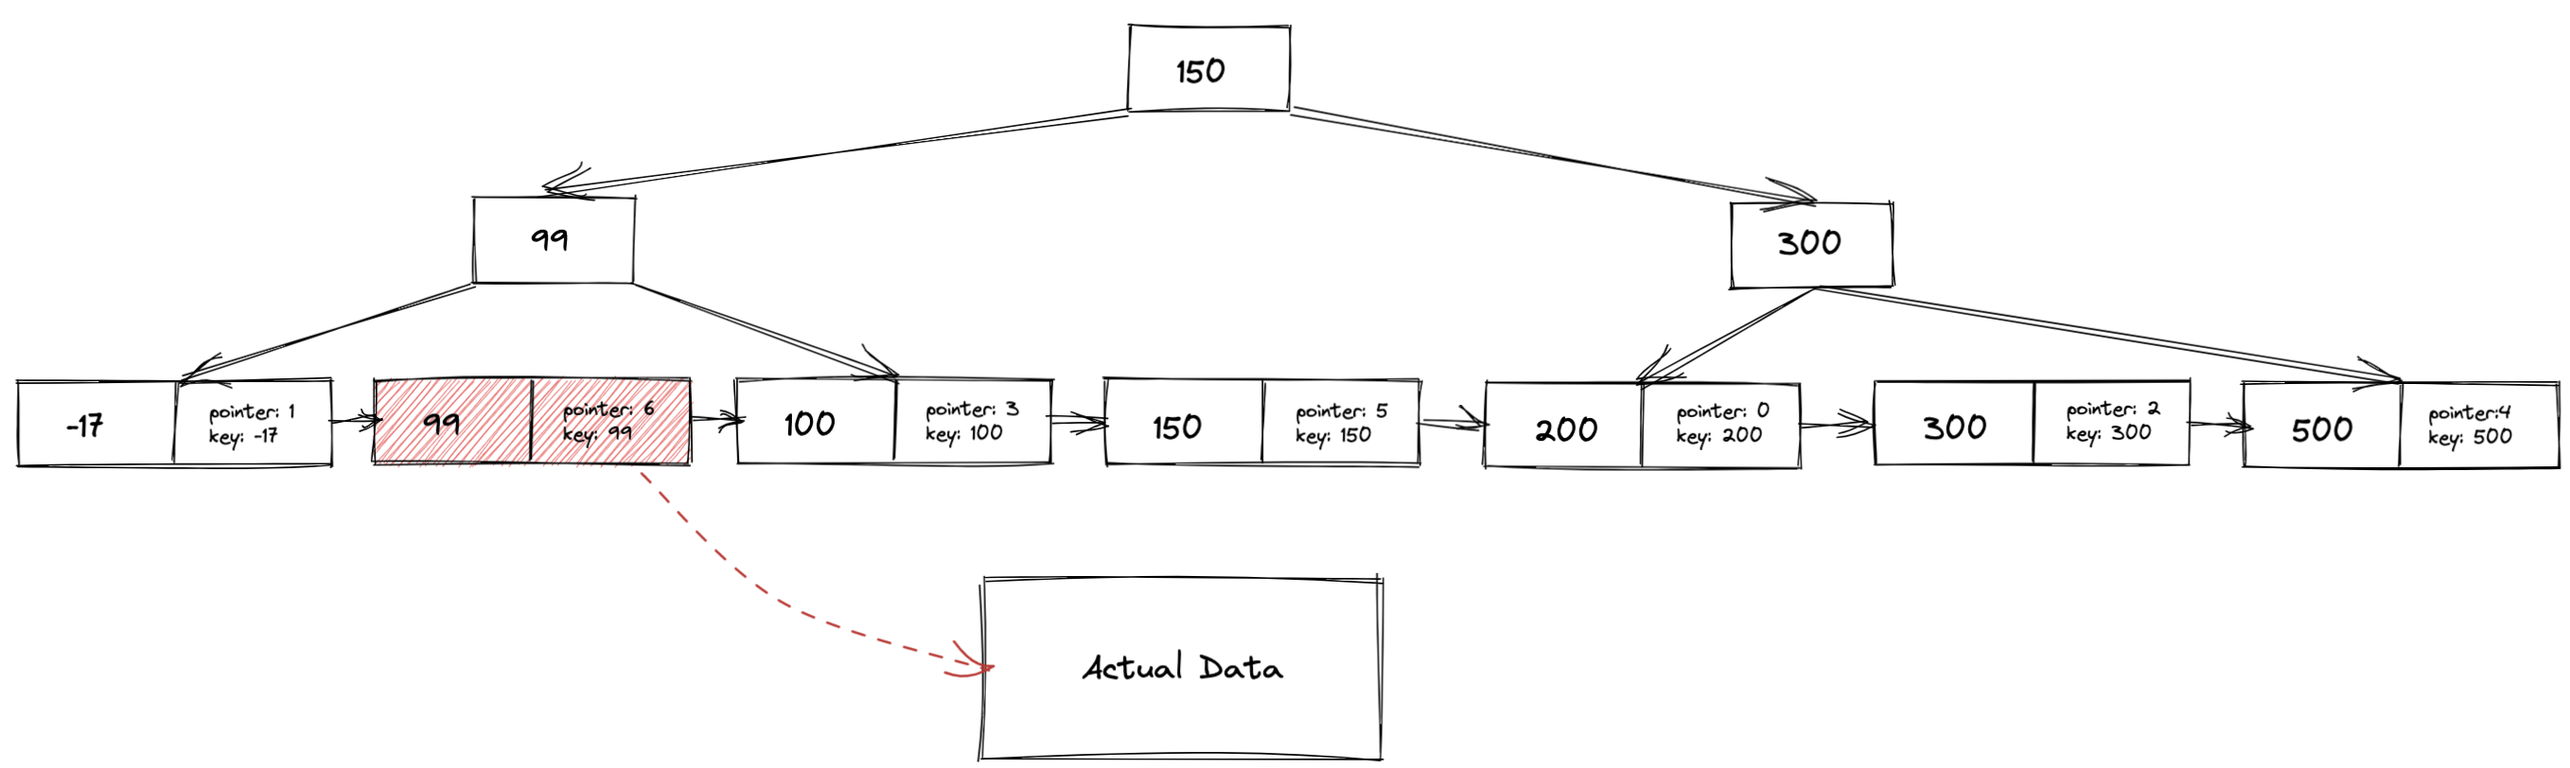
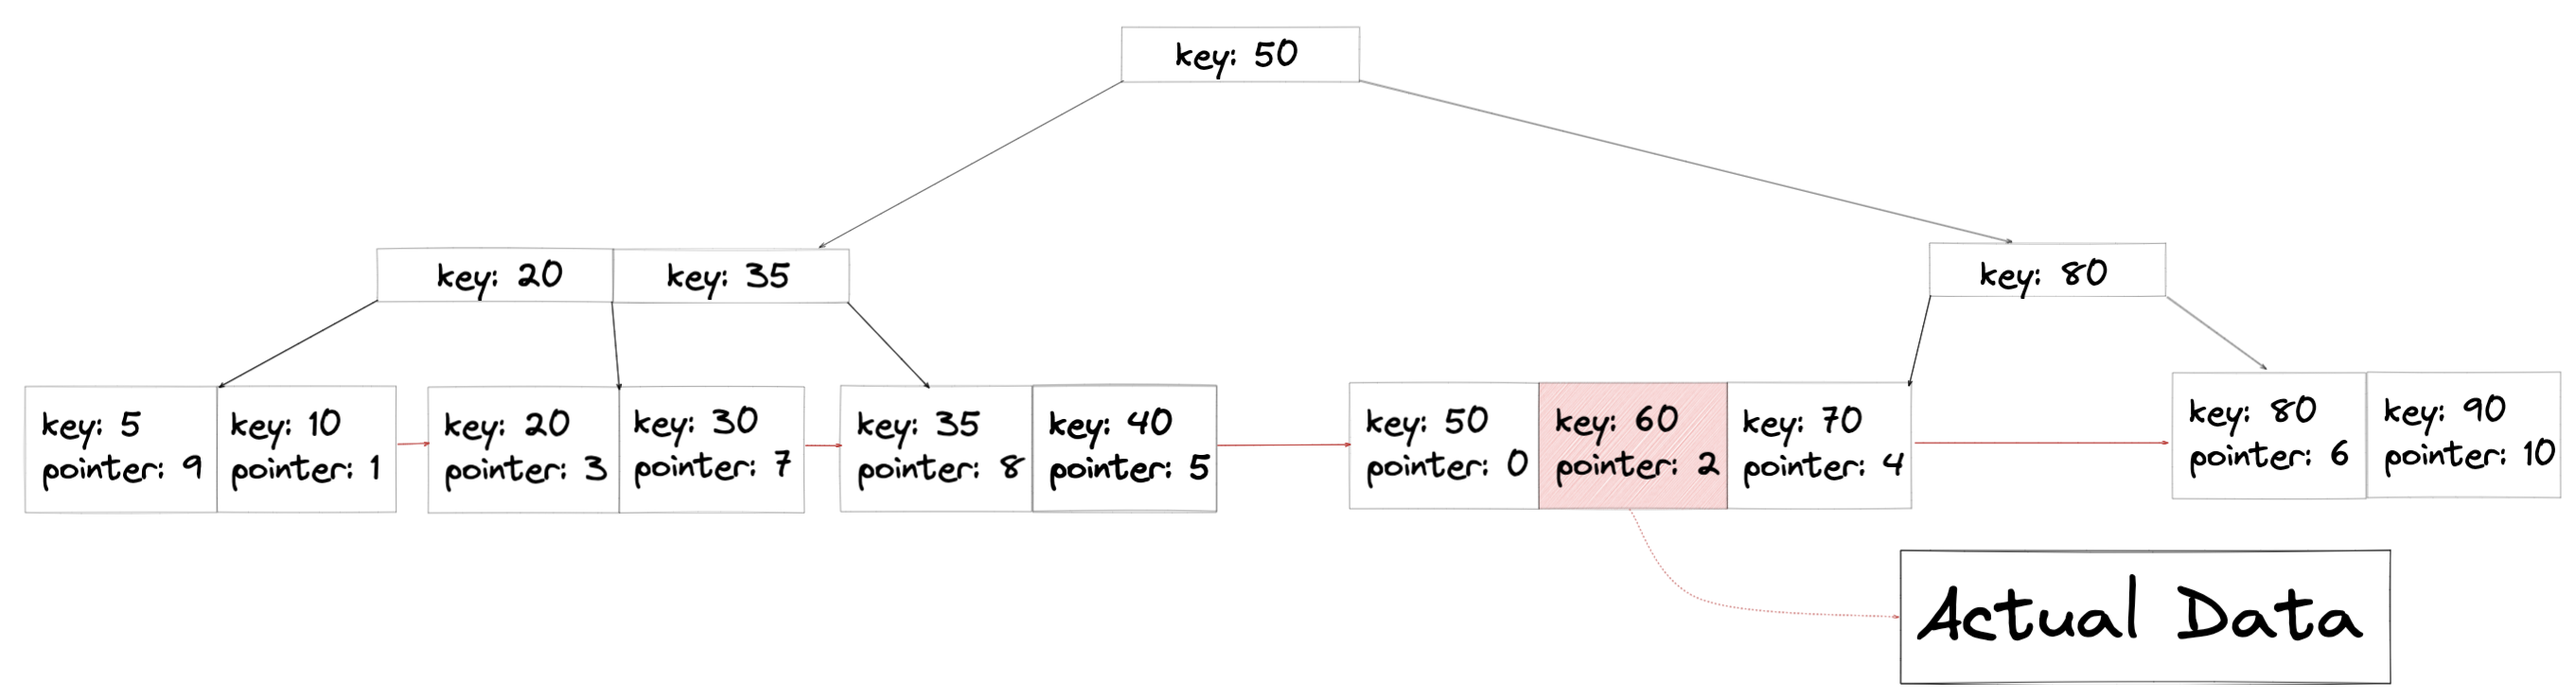
完善树的形状

diff --git a/blog/howmysqlindexwork/index.html b/blog/howmysqlindexwork/index.html
@@ -69,7 +69,13 @@
   <p class="mb-1">June 30, 2020</p>
   <p>&mdash;</p>
 </div>
-<div class="content"><h3 id="1-bstbinary-search-tree">1. BST(Binary Search Tree)</h3>
+<div class="content"><p>This video really dives deep and explains the concept clearly:</p>
+
+<div style="position: relative; padding-bottom: 56.25%; height: 0; overflow: hidden;">
+  <iframe src="https://www.youtube.com/embed/aZjYr87r1b8" style="position: absolute; top: 0; left: 0; width: 100%; height: 100%; border:0;" allowfullscreen title="YouTube Video"></iframe>
+</div>
+
+<h3 id="1-start-from-bstbinary-search-tree">1. Start from BST(Binary Search Tree)</h3>
 <p>Consider how to solve <a href="https://leetcode.com/problems/binary-search/">LeetCode 704: Binary Search</a>:</p>
 <pre tabindex="0"><code>Input: nums = [-1,0,3,5,9,12], target = 9
 Output: 4
@@ -92,12 +98,18 @@ Explanation: 9 exists in nums and its index is 4
 </code></pre></div><p>Here try to visualized the whole search process using BST:</p>
 <p><img src="../../images/BST.png" alt=""></p>
 <h3 id="2-btb-tree">2. BT(B-Tree)</h3>
-<p>BST is the simplest form of BT. Instead of having a single entry for a single node, BT uses an array of entries for a single node and having reference to child node for each of these entries.</p>
+<p>BST is the simplest form of BT. Instead of having a single entry for a single node, BT uses an array of entries for a single node and having reference to child node for each of these entries. What&rsquo;s more, to be a BT tree, the following rules must be met:</p>
+<ul>
+<li>Each non-leaf node must have at least ceil(M/2) children.</li>
+<li>Root can have min 2 children</li>
+<li>All leaf nodes must in the same level</li>
+</ul>
+<p>Otherwise, it would be a simple M-way Search tree.</p>
 <p>Say we have the following data on disk:</p>
 <table>
 <thead>
 <tr>
-<th style="text-align:center">No.</th>
+<th style="text-align:center">DiskAdd</th>
 <th style="text-align:right">User</th>
 <th style="text-align:right">Bank</th>
 <th style="text-align:center">Saving</th>
@@ -108,51 +120,75 @@ Explanation: 9 exists in nums and its index is 4
 <td style="text-align:center">0</td>
 <td style="text-align:right">Ross</td>
 <td style="text-align:right">Merchant Bank</td>
-<td style="text-align:center">200</td>
+<td style="text-align:center">50</td>
 </tr>
 <tr>
 <td style="text-align:center">1</td>
 <td style="text-align:right">Joey</td>
 <td style="text-align:right">City Bank</td>
-<td style="text-align:center">-17</td>
+<td style="text-align:center">10</td>
 </tr>
 <tr>
 <td style="text-align:center">2</td>
 <td style="text-align:right">Chandler</td>
 <td style="text-align:right">Chase Bank</td>
-<td style="text-align:center">300</td>
+<td style="text-align:center">60</td>
 </tr>
 <tr>
 <td style="text-align:center">3</td>
 <td style="text-align:right">Monica</td>
 <td style="text-align:right">Bank of America</td>
-<td style="text-align:center">100</td>
+<td style="text-align:center">20</td>
 </tr>
 <tr>
 <td style="text-align:center">4</td>
 <td style="text-align:right">Phoebe</td>
 <td style="text-align:right">Merchant Bank</td>
-<td style="text-align:center">500</td>
+<td style="text-align:center">70</td>
 </tr>
 <tr>
 <td style="text-align:center">5</td>
 <td style="text-align:right">Rachel</td>
 <td style="text-align:right">City Bank</td>
-<td style="text-align:center">150</td>
+<td style="text-align:center">40</td>
 </tr>
 <tr>
 <td style="text-align:center">6</td>
-<td style="text-align:right">Gancer</td>
+<td style="text-align:right">Janice</td>
 <td style="text-align:right">Bank of America</td>
-<td style="text-align:center">99</td>
+<td style="text-align:center">80</td>
+</tr>
+<tr>
+<td style="text-align:center">7</td>
+<td style="text-align:right">Judy</td>
+<td style="text-align:right">Chase Bank</td>
+<td style="text-align:center">30</td>
+</tr>
+<tr>
+<td style="text-align:center">8</td>
+<td style="text-align:right">Bean</td>
+<td style="text-align:right">Bank of America</td>
+<td style="text-align:center">35</td>
+</tr>
+<tr>
+<td style="text-align:center">9</td>
+<td style="text-align:right">David</td>
+<td style="text-align:right">City Bank</td>
+<td style="text-align:center">5</td>
+</tr>
+<tr>
+<td style="text-align:center">10</td>
+<td style="text-align:right">Gill</td>
+<td style="text-align:right">Merchant Bank</td>
+<td style="text-align:center">90</td>
 </tr>
 </tbody>
 </table>
-<p>If we use BT, this is what data are organized on disk(index on <strong>Saving</strong>):（M=1）</p>
+<p>If we use BT, this is what data are organized on disk(index on <strong>Saving</strong>):（M=3）</p>
 <p><img src="../../images/Btree.png" alt=""></p>
 <p>Take a look at the BT shown above, for each TreeNode, it contains 2 KeyNodes which are sorted in ascending order. For each KeyNode, it not only stores the key value, but also stores the reference pointed to the actual data on disk.</p>
 <h3 id="3-btb-tree">3. B+T(B+ Tree)</h3>
-<p>If the <strong>Saving</strong> index is constructed using B+T, it is like: （M=1）</p>
+<p>If the <strong>Saving</strong> index is constructed using B+T, it is like: （M=3）</p>
 <p><img src="../../images/B+Tree.png" alt=""></p>
 <p>There are two kinds of nodes for B+T:</p>
 <ul>
@@ -168,12 +204,12 @@ Explanation: 9 exists in nums and its index is 4
 <li>The advantage of BT is that we can find values that lie close to the root fairly quickly, while in BT we would need to look all the way down to the leaf nodes for any value.</li>
 </ul>
 <h4 id="32-how-multi-column-index-represented-in-bt">3.2. How multi-column index represented in B+T?</h4>
-<p>Suppose we have index on <strong>Bank</strong> and <strong>Saving</strong>. Now we have one Compositive Key (Bank, Saving), the ordering of the Key is the lexicographic ordering.</p>
+<p>Suppose we have index on <strong>User</strong> and <strong>Saving</strong>. Now we have one Compositive Key (User, Saving), the ordering of the Key is the lexicographic ordering.</p>
 <p>The order of the key pair is:</p>
-<pre tabindex="0"><code>[{M, 200},{M, 500},{C, -17},{C, 150},{C, 300},{B, 99},{B, 100}]
-</code></pre><p>So the B+T is: （M=1）</p>
+<pre tabindex="0"><code>[{B, 35},{C, 60},{D, 5},{J, 10},{G, 90},{J, 30},{J, 80},{M, 20},{P, 70},{R, 40},{R, 50}]
+</code></pre><p>So the B+T is: （M=3）</p>
 <p><img src="../../images/MultiIndex.png" alt=""></p>
-<p>From this index structure, we can see why condition on (Bank) AND (Bank, Saving) would work, but not for (Saving).</p>
+<p>From this index structure, we can see why condition on (User) AND (User, Saving) would work, but not for (Saving).</p>
 <h3 id="4-reference">4. Reference</h3>
 <p>[1] <a href="https://www.cs.cornell.edu/courses/cs3110/2012sp/recitations/rec25-B-trees/rec25.html">https://www.cs.cornell.edu/courses/cs3110/2012sp/recitations/rec25-B-trees/rec25.html</a></p>
 <p>[2] <a href="https://vertabelo.com/blog/all-about-indexes-part-2-mysql-index-structure-and-performance/">https://vertabelo.com/blog/all-about-indexes-part-2-mysql-index-structure-and-performance/</a></p>
